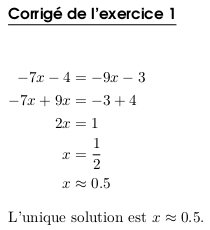
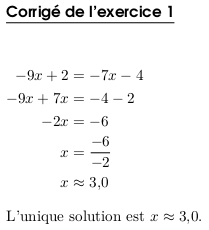
[doc] Utilisation de la commande LaTeX `\numprint{}` plutôt que de la commande Python `decimaux()`.

diff --git a/Doc/source/ecrire/5.1/equation51.py b/Doc/source/ecrire/5.1/equation51.py
@@ -27,7 +27,7 @@
 import random
 
 from pyromaths.ex import Jinja2Exercice
-from pyromaths.outils.decimaux import decimaux, suppr0
+from pyromaths.outils.decimaux import suppr0
 
 class EquationPremierDegre51(Jinja2Exercice):
 
@@ -63,13 +63,13 @@ class EquationPremierDegre51(Jinja2Exercice):
         else:
             calculs.append(r"{}x &= {}\\".format(a-c, d-b))
             calculs.append(r"x&=\frac{{ {} }}{{ {} }}\\".format(d-b, a-c))
-            solution = decimaux(suppr0(round(float(d-b)/float(a-c), 2)))
+            solution = suppr0(round(float(d-b)/float(a-c), 2))
             if 100*(float(d-b)/float(a-c)) == int(100 * float(d-b)/float(a-c)):
-                calculs.append(r"x&={}\\".format(solution))
-                conclusion = r"L'unique solution est $x = {}$.".format(solution)
+                calculs.append(r"x&=\numprint{{{}}}\\".format(solution))
+                conclusion = r"L'unique solution est $x = \numprint{{{}}}$.".format(solution)
             else:
-                calculs.append(r"x&\approx{}\\".format(solution))
-                conclusion = r"L'unique solution est $x \approx {}$.".format(solution)
+                calculs.append(r"x&\approx\numprint{{{}}}\\".format(solution))
+                conclusion = r"L'unique solution est $x \approx \numprint{{{}}}$.".format(solution)
         self.context = {
             "a": a,
             "b": b,

diff --git a/Doc/source/ecrire/5.2/equation52.py b/Doc/source/ecrire/5.2/equation52.py
@@ -27,7 +27,7 @@
 import random
 
 from pyromaths.ex import Jinja2Exercice
-from pyromaths.outils.decimaux import decimaux, suppr0
+from pyromaths.outils.decimaux import suppr0
 
 class EquationPremierDegre52(Jinja2Exercice):
 
@@ -48,7 +48,6 @@ class EquationPremierDegre52(Jinja2Exercice):
     def environment(self):
         environment = super(EquationPremierDegre52, self).environment
         environment.filters.update({
-            'decimaux': decimaux,
             'suppr0': suppr0,
             })
         return environment

diff --git a/Doc/source/ecrire/5.3/equation53.py b/Doc/source/ecrire/5.3/equation53.py
@@ -27,7 +27,7 @@
 import random
 
 from pyromaths.ex import Jinja2Exercice
-from pyromaths.outils.decimaux import decimaux, suppr0
+from pyromaths.outils.decimaux import suppr0
 
 class EquationPremierDegre53(Jinja2Exercice):
 
@@ -62,7 +62,6 @@ class EquationPremierDegre53(Jinja2Exercice):
     def environment(self):
         environment = super(EquationPremierDegre53, self).environment
         environment.filters.update({
-            'decimaux': decimaux,
             'suppr0': suppr0,
             })
         return environment

diff --git a/Doc/source/ecrire/4/equation4.py b/Doc/source/ecrire/4/equation4.py
@@ -27,7 +27,7 @@
 import random
 
 from pyromaths.ex import Jinja2Exercice
-from pyromaths.outils.decimaux import decimaux, suppr0
+from pyromaths.outils.decimaux import suppr0
 
 class EquationPremierDegre4(Jinja2Exercice):
 
@@ -48,7 +48,6 @@ class EquationPremierDegre4(Jinja2Exercice):
     def environment(self):
         environment = super(EquationPremierDegre4, self).environment
         environment.filters.update({
-            'decimaux': decimaux,
             'suppr0': suppr0,
             })
         return environment

diff --git a/Doc/source/ecrire/3/EquationPremierDegre3-answer.tex b/Doc/source/ecrire/3/EquationPremierDegre3-answer.tex
@@ -5,7 +5,7 @@
   (( a )) x (( "%+d"|format(-c) ))x &= (( d )) (( "%+d"|format(-b) )) \\
   (( a - c )) x &= (( d - b )) \\
   x &= \frac{(( d - b ))}{(( a - c ))} \\
-  x &\approx (( ((d-b)/(a-c)) | round(2) ))
+  x &\approx \numprint{(( ((d-b)/(a-c)) | round(2) ))}
 \end{align*}
 
-L'unique solution est $x\approx(( ((d-b)/(a-c)) | round(2) ))$.
+L'unique solution est $x\approx\numprint{(( ((d-b)/(a-c)) | round(2) ))}$.

diff --git a/Doc/source/ecrire/5.2/EquationPremierDegre52-answer.tex b/Doc/source/ecrire/5.2/EquationPremierDegre52-answer.tex
@@ -21,7 +21,7 @@
          (* else *)
              \approx
          (* endif *)
-         (( ((d-b)/(a-c)) | round(2) | suppr0 | decimaux ))
+         \numprint{(( ((d-b)/(a-c)) | round(2) | suppr0 ))}
   (* endif *)
 \end{align*}
 
@@ -37,5 +37,5 @@
   (* else *)
       \approx
   (* endif *)
-  (( ((d-b)/(a-c)) | round(2) | suppr0 | decimaux ))$.
+  \numprint{(( ((d-b)/(a-c)) | round(2) | suppr0 ))}$.
 (* endif *)

diff --git a/Doc/source/ecrire/4/EquationPremierDegre4-answer.tex b/Doc/source/ecrire/4/EquationPremierDegre4-answer.tex
@@ -11,7 +11,7 @@
         (* else *)
             \approx
         (* endif *)
-        (( ((d-b)/(a-c)) | round(2) | suppr0 | decimaux ))
+        \numprint{(( ((d-b)/(a-c)) | round(2) | suppr0 ))}
 \end{align*}
 
 L'unique solution est
@@ -21,4 +21,4 @@ $x
 (* else *)
     \approx
 (* endif *)
-(( ((d-b)/(a-c)) | round(2) | suppr0 | decimaux ))$.
+\numprint{(( ((d-b)/(a-c)) | round(2) | suppr0 ))}$.

diff --git a/Doc/source/ecrire/5.3/EquationPremierDegre53-answer.tex b/Doc/source/ecrire/5.3/EquationPremierDegre53-answer.tex
@@ -11,7 +11,7 @@
         (* else *)
             \approx
         (* endif *)
-        (( ((d-b)/(a-c)) | round(2) | suppr0 | decimaux ))
+        \numprint{(( ((d-b)/(a-c)) | round(2) | suppr0 ))}
 \end{align*}
 
 L'unique solution est
@@ -21,4 +21,4 @@ $x
 (* else *)
     \approx
 (* endif *)
-(( ((d-b)/(a-c)) | round(2) | suppr0 | decimaux ))$.
+\numprint{(( ((d-b)/(a-c)) | round(2) | suppr0 ))}$.

diff --git a/Doc/source/ecrire.rst b/Doc/source/ecrire.rst
@@ -163,9 +163,9 @@ Dans cette partie, pour générer l'exercice et suivre votre travail, la command
 
 .. code-block:: shell
 
-   $ utils/pyromaths-cli.py generate EquationPremierDegre3:33
+   $ utils/pyromaths-cli.py generate EquationPremierDegre3:2
 
-Remarquez que par rapport à la commande utilisée dans la partie précédente, un ``:33`` a été ajouté à la fin de la ligne. Il correspond à la graine (`seed`) du générateur pseudo-aléatoire.
+Remarquez que par rapport à la commande utilisée dans la partie précédente, un ``:2`` a été ajouté à la fin de la ligne. Il correspond à la graine (`seed`) du générateur pseudo-aléatoire.
 
 .. note::
 
@@ -175,11 +175,11 @@ Remarquez que par rapport à la commande utilisée dans la partie précédente, 
 
   Nous gardons le même système, mais au lieu de commencer à la première décimale de π, nous utilisons désormais sur l'heure courante : si le programme est lancé à 13h37, nous utilisons alors les décimales de π à partir de la 1337e. Ainsi, deux exécutions successives donneront deux exercices différents.
 
-  C'est mieux. Mais quand nous créerons notre exercices, nous allons générer encore et encore un exercice, et nous aimerions toujours générer le même (cela facilitera le développement, pour ne pas être perturbé par des valeurs numériques qui changent ; pour qu'un bug introduit par une valeur numérique spécifique n'apparaisse et ne disparaisse pas aléatoirement). Du coup, nous imposons le début de la séquence aléatoire : c'est la signification du ``:33`` ajouté à la fin de la ligne de commande.
+  C'est mieux. Mais quand nous créerons notre exercices, nous allons générer encore et encore un exercice, et nous aimerions toujours générer le même (cela facilitera le développement, pour ne pas être perturbé par des valeurs numériques qui changent ; pour qu'un bug introduit par une valeur numérique spécifique n'apparaisse et ne disparaisse pas aléatoirement). Du coup, nous imposons le début de la séquence aléatoire : c'est la signification du ``:2`` ajouté à la fin de la ligne de commande.
 
   C'est un peu plus compliqué en réalité, mais dans les grande lignes, c'est ainsi qu'un ordinateur génère du hasard. Plus d'informations, par exemple, dans l'article de Wikipédia `Pseudorandom generator <https://en.wikipedia.org/wiki/Pseudorandom_generator>`__.
 
-Si nous voulons générer un autre exercice, il suffit de transformer le ``EquationPremierDegre3:33`` en ``EquationPremierDegre3:1729``, ``EquationPremierDegre3:0123456789``, ou n'importe quel nombre de votre choix.
+Si nous voulons générer un autre exercice, il suffit de transformer le ``EquationPremierDegre3:2`` en ``EquationPremierDegre3:1729``, ``EquationPremierDegre3:0123456789``, ou n'importe quel nombre de votre choix.
 
 Code Python
 -----------
@@ -241,7 +241,7 @@ Cette option permet de définir des commandes (du shell) qui seront executées s
 Bilan
 -----
 
-Nous avons produit l'exercice :download:`exercice.pdf <ecrire/3/exercice.pdf>`. Il fonctionne, mais il y a un petit problème dans le corrigé : le résultat (arrondi) est écrit à l'anglaise, avec un point au lieu d'une virgule. De plus, même dans le cas d'une solution exacte, le signe :math:`\approx` est utilisé.
+Nous avons produit l'exercice :download:`exercice.pdf <ecrire/3/exercice.pdf>`. Il fonctionne, mais il y a deux problèmes dans le corrigé : d'une part, alors que la solution est exacte, le signe :math:`\approx` est utilisé ; d'autre part, bien que la solution soit entière, le code a produit ``3,0`` plutôt que ``3``.
 
 .. figure:: ecrire/3/corrige.png
    :align: center
@@ -253,7 +253,7 @@ Structures de contrôle, et `filters` personnalisés
 
 Deux problèmes existent dans le corrigé défini précédemment.
 
-- Le nombre à virgule est écrit avec un point et, dans le cas d'un résultat entier (ce qui n'est pas le cas ici), le code produit ``2.0`` plutôt que ``2`` (cela est dû à Python qui manipule des flottants, et écrit donc la première version pour insister sur le type flottant plutôt qu'entier).
+- Le code produit ``3,0`` plutôt que ``3`` (cela est dû à Python qui manipule des flottants, et écrit donc la première version pour insister sur le type flottant plutôt qu'entier).
 - Le signe utilisé pour donner la solution est :math:`\approx`, que la solution soit exacte ou non.
 
 `Filters` personnalisés
@@ -261,16 +261,16 @@ Deux problèmes existent dans le corrigé défini précédemment.
 
 .. currentmodule:: pyromaths.outils.decimaux
 
-Heureusement, deux fonctions du module :mod:`pyromaths.outils.decimaux` existent dans Pyromaths pour corriger le premier problème : :func:`suppr0` permet de supprimer le `.0` à la fin d'un flottant lorsque c'est utile, et :func:`decimaux` permet de représenter un nombre décimal en respectant les conventions françaises. Encore faut-il que ces fonctions soient accessibles depuis le `template` LaTeX.
+Heureusement, une fonction du module :mod:`pyromaths.outils.decimaux` existe pour corriger le premier problème : :func:`suppr0` permet de supprimer le `.0` à la fin d'un flottant lorsque c'est utile. Encore faut-il que cette fonction soit accessible depuis le `template` LaTeX.
 
 Ajoutons la méthode suivante à la classe :class:`~pyromaths.ex.troisiemes.equation.EquationPremierDegre4` :
 
 .. literalinclude::  ecrire/4/equation4.py
    :linenos:
    :lineno-start: 47
-   :lines: 47-54
+   :lines: 47-53
 
-Celle-ci a pour effet d'ajouter à l'environnement jinja2 les deux fonctions :func:`suppr0` et :func:`decimaux` comme des `filters`, qui sont alors accessibles depuis le `template`.
+Celle-ci a pour effet d'ajouter à l'environnement jinja2 la fonction :func:`suppr0` comme un `filter`, qui est alors accessible depuis le `template`.
 
 .. literalinclude::  ecrire/4/EquationPremierDegre4-answer.tex
    :language: latex
@@ -343,7 +343,7 @@ Puisque les cas particuliers sont traités avec Jinja2, le code Python est rédu
 .. literalinclude::  ecrire/5.2/equation52.py
    :linenos:
    :lineno-start: 32
-   :lines: 32-54
+   :lines: 32-53
 
 Le code LaTeX, en revanche, est plus fourni.
 
